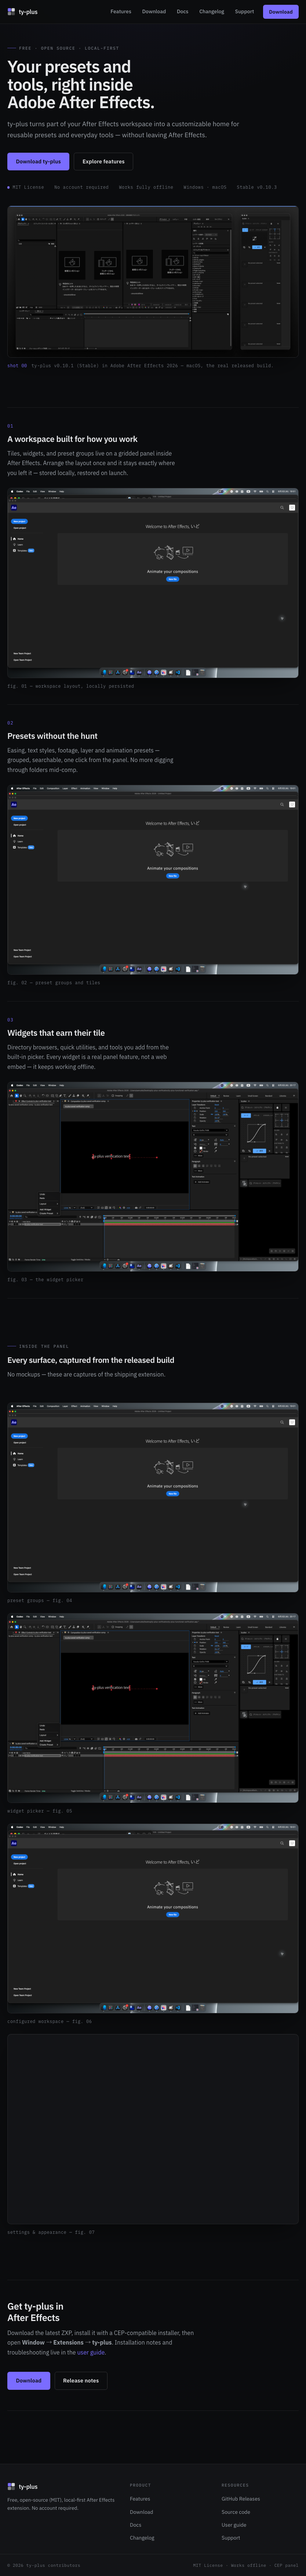
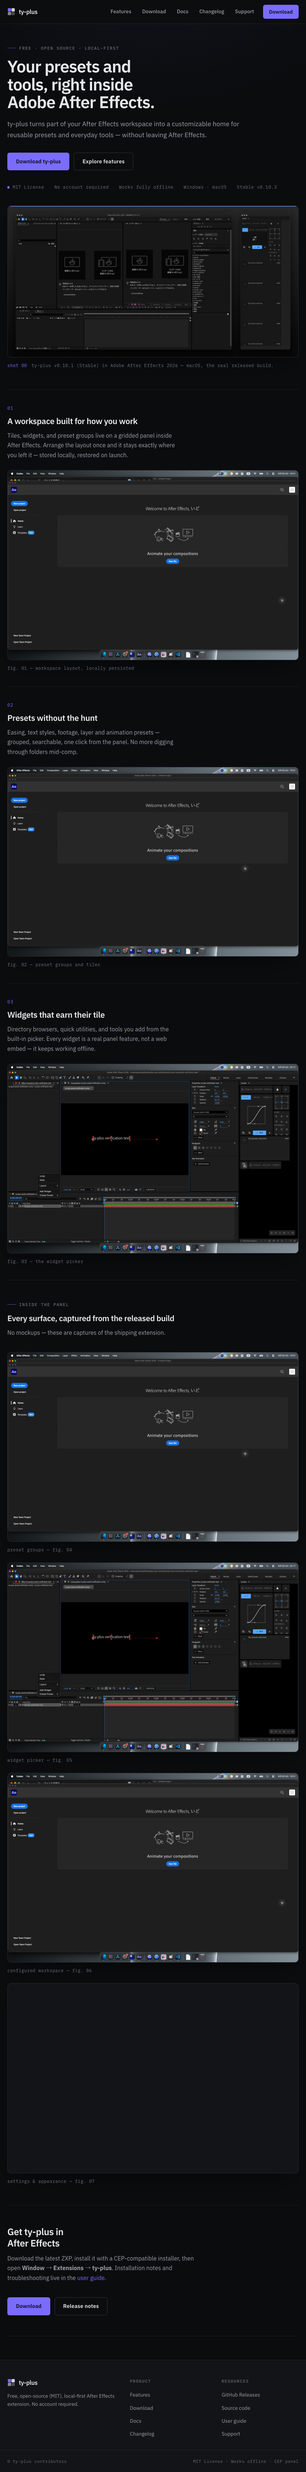
fix(web): normalize vertical rhythm via sibling margins (#277)
Generated with [Devin](https://devin.ai)

diff --git a/apps/web/src/styles/app.css b/apps/web/src/styles/app.css
@@ -136,19 +136,23 @@ a:hover {
 	display: none;
 }
 
-/* Page container */
+/* Page container. Vertical rhythm comes from margins between sibling
+   .page blocks so gaps collapse consistently instead of stacking. */
 .page {
 	max-width: var(--site-wrap);
 	margin-inline: auto;
 	padding-inline: 1.25rem;
-	padding-block: 3.5rem 4rem;
+}
+
+.page + .page {
+	margin-block-start: 3.5rem;
 }
 
 /* Standard page head: eyebrow → h1 → lead. */
 .page-head,
 .page-header {
 	max-width: var(--site-prose);
-	margin-block-end: 3rem;
+	padding-block-start: 3.5rem;
 }
 
 .page-head h1,
@@ -168,8 +172,8 @@ a:hover {
 	margin: 0;
 }
 
-.section {
-	margin-block-end: 4rem;
+.section:not(.page) {
+	margin-block-end: 2.5rem;
 }
 
 .section h2 {
@@ -536,7 +540,7 @@ figure.shot figcaption .shot-index {
 
 .site-footer {
 	border-block-start: 1px solid var(--site-hairline);
-	margin-block-start: 5rem;
+	margin-block-start: 4rem;
 	background: var(--site-bg-raised);
 }
 
@@ -615,7 +619,7 @@ figure.shot figcaption .shot-index {
 /* ------------------------------------------------------------------ */
 
 .hero {
-	padding-block: 5rem 4rem;
+	padding-block: 5rem 0;
 }
 
 .hero-grid {
@@ -675,7 +679,7 @@ figure.shot figcaption .shot-index {
 
 @media (max-width: 60rem) {
 	.hero {
-		padding-block: 3.5rem 3rem;
+		padding-block: 3.5rem 0;
 	}
 	.hero-grid {
 		grid-template-columns: 1fr;
